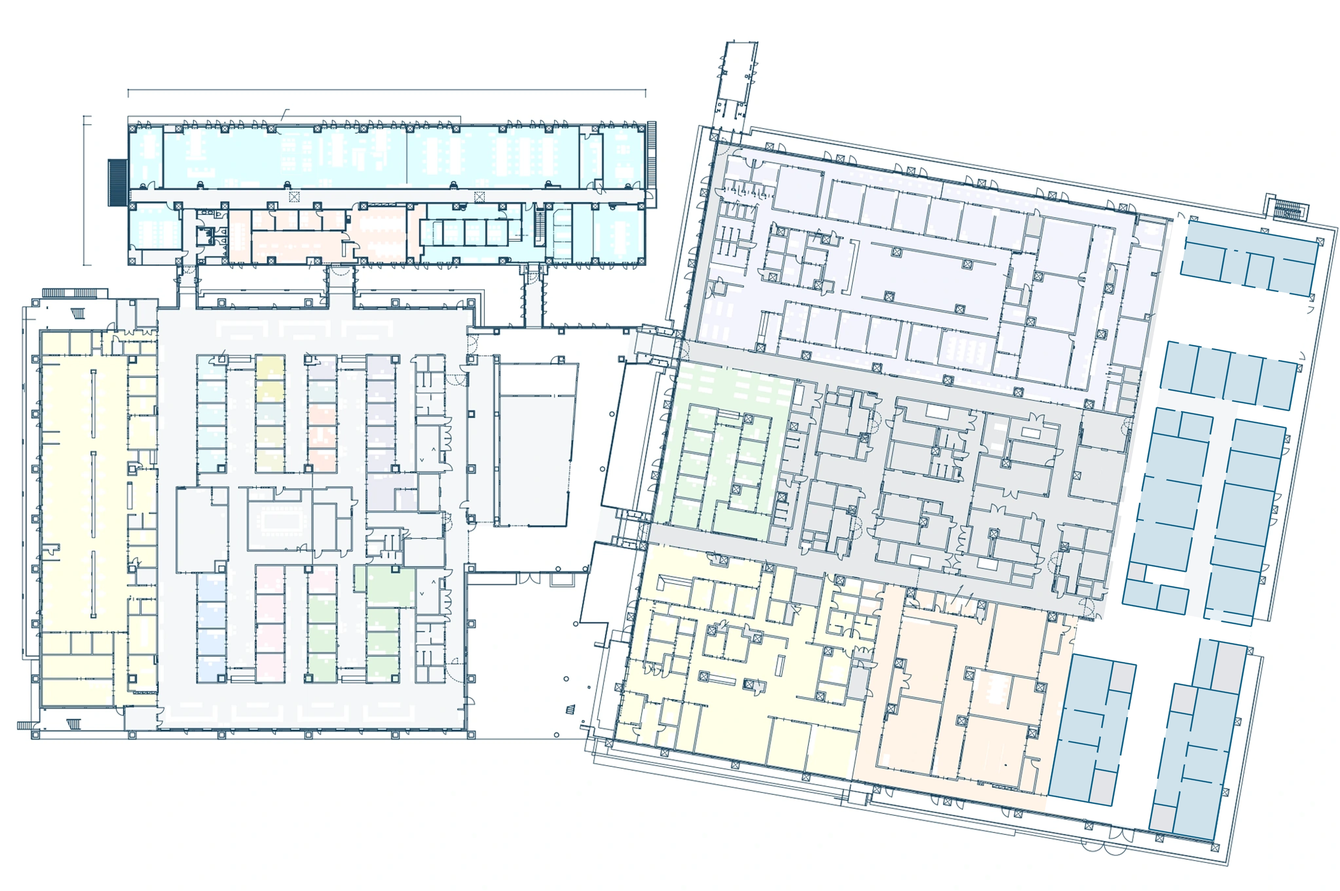
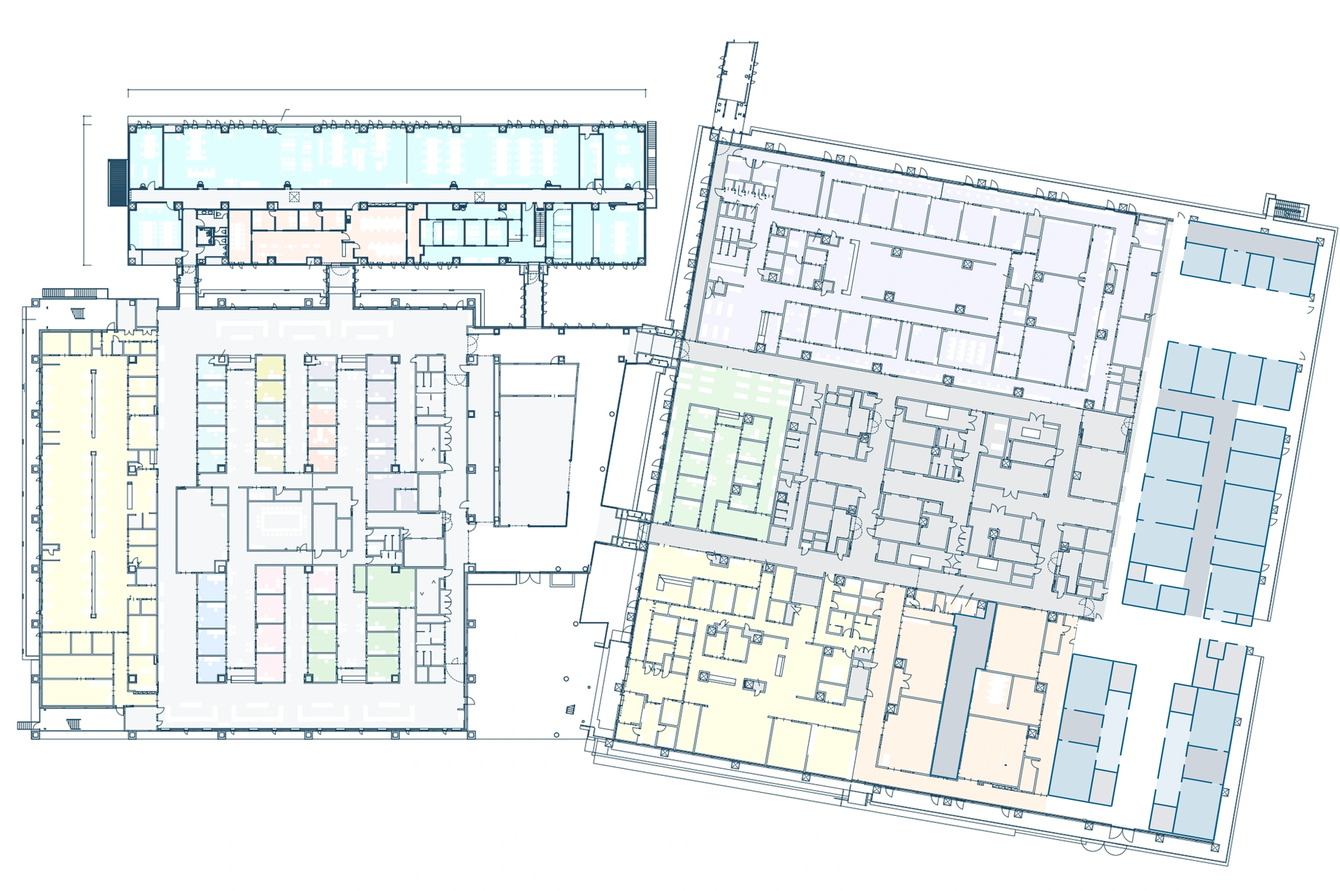
Clarify 2S staff passages and align map signs with patient navigation

Changed region(s): [[0.869, 0.4372, 0.9311, 0.687], [0.6828, 0.687, 0.7449, 0.8744], [0.9, 0.7182, 0.9311, 0.7494]]

diff --git a/docs/staff.html b/docs/staff.html
@@ -15,11 +15,11 @@ window.addEventListener('error',recordMapStartupError,true);
 <main class="settings-hidden" inert><aside id="settings"><div class="aside-top"><p class="eyebrow">HOSPITAL WAYFINDING</p><h1>出発地・目的地を設定</h1><p>外来と病棟を、ひとつの地図で。</p></div><section class="location-card start-card"><h2><i class="start-dot"></i>出発地</h2><strong id="currentName">総合受付</strong><small id="currentFloor">3階</small><details><summary>一覧から出発地を選ぶ</summary><label for="fromSelect">出発する場所</label><select id="fromSelect"></select><p id="plotHelp" class="muted">出発地は手動で設定します。</p></details></section>
 <section id="chosenPlace" class="chosen goal-card" aria-live="polite"><small><i class="goal-dot"></i>目的地</small><h2 id="chosenName">場所を選んでください</h2><p id="chosenFloor"></p><div class="actions"></div></section><section class="location-card destination-card"><h2><i class="goal-dot"></i><span id="searchModeLabel">目的地を探す</span></h2><label class="sr" for="findPlace">科名・場所・案内番号で検索</label><div class="filters" role="group" aria-label="目的地の種類"><button data-filter="all" aria-pressed="true">すべて</button><button data-filter="clinic" aria-pressed="false">外来</button><button data-filter="ward" aria-pressed="false">病棟・リハビリ</button><button data-filter="counter" aria-pressed="false">受付・窓口</button><button data-filter="amenity" aria-pressed="false">食事・買い物</button><button data-filter="equipment" aria-pressed="false">設備</button><button data-filter="entrance" aria-pressed="false">出入口</button></div><div id="resultCount" class="muted" aria-live="polite"></div><div id="placeResults" class="place-results"></div></section>
 </aside>
-<section class="map-area"><div class="map-heading"><div><p class="eyebrow">ONE CONTINUOUS FLOOR MAP</p><h2 id="floorTitle">3階 <span>外来・診療棟</span></h2></div><button id="mapInfoButton" class="secondary info-button">地図の説明</button></div><div class="mobility-controls" hidden><label><span class="sr">移動方法</span><select id="travelChoice"><option value="auto">徒歩</option><option value="stretcher">ストレッチャー</option><option value="elevator">車椅子（EVのみ）</option></select></label></div><div id="mapSearchBar" class="map-search-bar"><button id="openPlaceSearch" aria-label="検索候補を開く" aria-expanded="false">⌕</button><input id="findPlace" type="search" aria-label="科名・場所・案内番号で検索" placeholder="診療科・病棟・施設を検索" autocomplete="off"><button id="clearPlaceSearch" aria-label="検索をクリア">×</button></div><div class="floor-toolbar"><div id="allFloors" class="floors" role="group" aria-label="表示する階"></div><button id="wardFocus" class="secondary">病棟を拡大</button></div><section id="arrowEditorPanel" class="arrow-editor" aria-label="入口矢印の編集" hidden><div class="arrow-editor-title"><strong>入口矢印を調整</strong><span id="arrowSaveStatus" role="status">この端末に自動保存</span></div><p>入口を選び、地図の青い丸をドラッグしてください。矢印の表示だけを調整し、通行ルートは変更しません。</p><div class="arrow-fields"><label>編集する入口<select id="arrowSelect"></select></label><label>向き<select id="arrowDirection"><option value="270">↑ 上向き</option><option value="0">→ 右向き</option><option value="90">↓ 下向き</option><option value="180">← 左向き</option></select></label></div><div class="arrow-actions"><span>位置を微調整</span><button data-arrow-nudge="0,-4" aria-label="矢印を上へ">↑</button><button data-arrow-nudge="-4,0" aria-label="矢印を左へ">←</button><button data-arrow-nudge="4,0" aria-label="矢印を右へ">→</button><button data-arrow-nudge="0,4" aria-label="矢印を下へ">↓</button><button id="undoArrow">元に戻す</button><button id="resetArrow">この入口を初期位置に</button></div><div class="arrow-actions"><button id="exportArrows" class="primary">修正データを書き出す</button><button id="importArrows" class="secondary">修正データを読み込む</button><input id="arrowImportFile" type="file" accept="application/json,.json" hidden></div><p class="muted">他の端末やサイト全体にも反映する場合は、書き出したファイルをこのチャットに添付してください。</p></section><section id="annPanel" class="corridor-panel" aria-label="通路・到着点の修正" hidden><div class="ann-heading"><strong>この地図で通路・到着点を修正</strong><button id="annClose">保存して確認に戻る</button></div><p id="annContext" class="ann-context" hidden></p><p class="ann-explainer">通路は1回描き、受付への枝道を追加できます。修正は端末に自動保存します。<b>ナビへ反映すると青線が更新されます。</b></p><div class="ann-tools" role="group" aria-label="修正するもの"><button data-ann-tool="select" aria-pressed="true">選択・点を動かす</button><button data-ann-tool="corridor" aria-pressed="false">新しい通路</button><button data-ann-tool="entrance" aria-pressed="false">出入口を置く</button><button data-ann-tool="arrival" aria-pressed="false">到着点を置く</button><button id="annCopy">表示中の経路をコピー</button></div><details id="annMetadata" class="ann-metadata"><summary>目的地・通行区分・確認メモを設定</summary><div class="ann-fields"><label>つなぐ目的地<select id="annTarget"></select></label><label>修正案の名称<input id="annName" maxlength="120" value="通路の修正案"></label><label>通行区分<select id="annAccess"><option value="unknown">未確認</option><option value="patient">患者・職員共用</option><option value="staff">職員専用</option></select></label><label>確認状態<select id="annReview"><option value="draft">下書き</option><option value="drawing">図面で確認済み</option><option value="onsite">現地で確認済み</option></select></label></div><label class="ann-note">修正案のメモ<input id="annNote" maxlength="4000" placeholder="扉の手前で終了、通路の曲がり角など"></label></details><div class="ann-actions"><label><input id="annSnap" type="checkbox" checked> 近くの記録済み通路につなぐ</label><label><input id="annOrthogonal" type="checkbox" checked> 直角補正</label><button id="annFinish" class="primary" disabled>線を確定</button><button id="annUndo" disabled>編集を元に戻す</button></div><div class="ann-actions"><strong id="annSelection">新しい修正案</strong><span id="annVertex"></span><button id="annAddPoint" disabled>選択点の次に点を追加</button><button id="annRemovePoint" disabled>選択点を削除</button><button id="annSquare" disabled>選択した線を直角に整える</button><button id="annDelete" disabled>選択した記録を削除</button></div><p id="annStatus" role="status">曲がり角をクリックして描き、丸い点をドラッグして修正します。</p><details><summary>この階の記録 <span id="annCount">0件</span>・データの保存</summary><div id="annRecords" class="ann-records"></div><div class="ann-actions"><button id="annData">データを表示</button><button id="annExport">修正案を書き出す</button><label class="ann-import">修正案を読み込む<input id="annImport" type="file" accept="application/json,.json"></label><a href="annotate-legacy.html" target="_blank" rel="noopener">旧図面の記録を確認 ↗</a></div></details><p class="ann-legend">橙：共用の修正案　紫：区分未確認　灰：職員専用　破線：下書き。青線は既存の案内です。</p></section><dialog id="annDialog"><h2>通路・到着点の修正案</h2><textarea id="annJson" readonly rows="12" aria-label="現在のマップの通路修正データ"></textarea><button id="annDialogClose">閉じる</button></dialog><p id="walkingHint" class="walking-hint">地図の目的地を押す →「ナビ開始」。歩く案内は「次へ」で進めます。青い点は手順に連動して動く案内位置です。自動測位は行いません。</p><div id="routeSummary" class="route-summary" hidden><div><strong id="routeSummaryText"></strong><div id="routeJourney" class="route-journey"></div></div><div class="route-summary-actions"><button id="beginNavigation" class="primary">ナビ開始</button><button id="routeConcernLink" class="secondary" hidden>要確認箇所</button></div></div><button id="returnToPosition" class="return-position" type="button" aria-label="現在地に戻る" title="現在地に戻る" hidden><svg viewBox="0 0 24 24" width="18" height="18" aria-hidden="true" fill="none" stroke="currentColor" stroke-width="1.8" stroke-linecap="round"><circle cx="12" cy="12" r="7"/><circle cx="12" cy="12" r="2.5" fill="currentColor" stroke="none"/><path d="M12 2v3m0 14v3M2 12h3m14 0h3"/></svg></button><section id="navigationPanel" class="navigation-panel" aria-live="polite" hidden><div><span id="navigationCount"></span><button id="stopNavigation" class="secondary" aria-label="ナビを終了">×</button></div><span id="navigationModeBadge" class="navigation-mode-badge"></span><h3 id="navigationInstruction"></h3><p id="navigationDetail" hidden aria-hidden="true"></p><p id="navigationTransferStatus" class="navigation-transfer-status" role="status" hidden></p><div class="navigation-buttons"><button id="navigationPrev" class="secondary">← 前へ</button><button id="navigationNext" class="primary">次へ →</button></div></section><span id="selectionHint" role="status" class="selection-status"></span><div id="mapViewport" class="map-viewport" tabindex="0" aria-label="地図。拡大後はドラッグで移動できます。"><section id="facilityDetails" class="facility-details" aria-label="施設の写真と案内" hidden><section id="routePlanner" class="route-planner" aria-label="経路の設定" hidden><div class="route-travel-tabs" role="group" aria-label="移動方法"><button data-travel-choice="auto" aria-pressed="true"><svg class="walking-pict" viewBox="0 0 24 24" aria-hidden="true" data-icon-source="google-material-directions-walk"><path fill="currentColor" d="M13.5 5.5c1.1 0 2-.9 2-2s-.9-2-2-2-2 .9-2 2 .9 2 2 2zM9.8 8.9L7 23h2.1l1.8-8 2.1 2v6h2v-7.5l-2.1-2 .6-3C14.8 12 16.8 13 19 13v-2c-1.9 0-3.5-1-4.3-2.4l-1-1.6c-.4-.6-1-1-1.7-1-.3 0-.5.1-.8.1L6 8.3V13h2V9.6l1.8-.7"/></svg>通常</button><button data-travel-choice="elevator" aria-pressed="false"><span class="official-wheelchair-icon" aria-hidden="true" title="近畿大学病院公式フロアマップの車椅子ピクト"></span>車椅子（EVのみ）</button></div><div class="route-place-fields"><button id="routeStartField" class="route-place-field route-start-field"><span class="route-field-dot" aria-hidden="true"></span><span><small>出発地・現在いる場所</small><strong id="routeStartLabel">総合受付</strong></span><span class="route-field-edit">変更</span></button><button id="routeGoalField" class="route-place-field route-goal-field"><span class="route-field-dot" aria-hidden="true"></span><span><small>目的地</small><strong id="routeGoalLabel"></strong></span><span class="route-field-edit">変更</span></button></div></section><button id="closeFacilityDetails" class="facility-close" aria-label="施設情報を閉じる">×</button><div id="destinationPhotoPreview" class="destination-photo-preview" hidden><button id="viewDestinationPhoto"><img id="destinationPhotoThumb" referrerpolicy="no-referrer" alt=""><span>写真を見る</span></button><strong id="destinationPhotoLabel"></strong><small>近畿大学病院 公式写真</small></div><div class="facility-detail-body"><small id="facilityDetailFloor"></small><h2 id="facilityDetailName"></h2><div class="facility-detail-actions"><button id="detailRoute" class="secondary">出発地</button><button id="detailNavigate" class="primary">目的地</button><a id="detailWebsite" class="secondary" target="_blank" rel="noopener" href="https://www.med.kindai.ac.jp/floormap_facility.html">ウェブサイト</a></div></div></section><section id="map3DHover" class="map-3d-hover place-preview" aria-label="地図上の施設プレビュー" hidden><button id="closePlacePreview" class="place-preview-close" aria-label="施設プレビューを閉じる">×</button><img id="placePreviewPhoto" alt="" referrerpolicy="no-referrer" hidden><div class="place-preview-copy"><strong id="map3DHoverName"></strong><small id="placePreviewSource" hidden>近畿大学病院 公式写真</small></div></section><div id="map3D" class="map-3d" hidden></div><div class="view-switch" role="group" aria-label="マップの表示"><button id="toggleMapView" data-current-view="2d" aria-label="3Dマップに切り替える">3D</button></div><section id="map3DControls" class="map-3d-controls" aria-label="3Dマップの操作" hidden><div class="map-3d-range">経路全体を表示</div><div class="map-3d-mode" role="group" aria-label="3Dのドラッグ操作"><button data-3d-mode="move" aria-pressed="true">移動</button><button data-3d-mode="rotate" aria-pressed="false">回転</button></div><div class="map-3d-actions"><button id="map3DHome">全体</button></div><details class="map-3d-extra"><summary>細かく操作</summary><div class="map-3d-actions"><button id="map3DPanLeft" aria-label="3Dマップを左へ移動">←</button><button id="map3DPanUp" aria-label="3Dマップを上へ移動">↑</button><button id="map3DPanDown" aria-label="3Dマップを下へ移動">↓</button><button id="map3DPanRight" aria-label="3Dマップを右へ移動">→</button></div><div class="map-3d-actions"><button id="map3DRotateLeft">↶ 回転</button><button id="map3DRotateRight">回転 ↷</button></div></details><p id="map3DGestureHint">1本指で移動 · 2本指で拡大・回転</p><p><strong id="map3DFloor"></strong><span id="map3DStatus" role="status"></span><small>階を離した立体表示</small></p><button id="map3DRetry" hidden>3Dを再読み込み</button></section><span class="maji-attribution">Maji Map</span><div id="mapSheet" class="map-sheet"><img id="mapBackground" alt="3階の公式フロアマップ" draggable="false"><svg id="unifiedOverlay" aria-label="出発地・目的地・確認済み経路"></svg></div><div class="zoom-tools"><button id="zoomIn" aria-label="地図を拡大">＋</button><output id="zoomReadout">100%</output><button id="zoomOut" aria-label="地図を縮小">−</button><button id="resetMap">全体</button></div><div class="map-badge" id="baseBadge">公式マップを使用</div></div><p id="mapMessage" class="map-message" role="status">場所を選ぶと、この地図上で位置を表示します。</p></section></main><dialog id="departmentWebsiteDialog" class="map-dialog"><div class="dialog-heading"><h2>診療科の公式ウェブサイト</h2><button id="closeDepartmentWebsites">閉じる</button></div><div id="departmentWebsiteLinks"></div></dialog><section id="routeSteps" class="route-steps" aria-live="polite" hidden></section><dialog id="mapInfoDialog" class="map-dialog"><div class="map-edit-actions"><button id="toggleArrowEditor" class="secondary" aria-expanded="false" aria-controls="arrowEditorPanel" hidden>入口矢印を編集</button></div><div class="map-edit-actions"><button id="editMedicineEVMain" class="secondary">2階・おくすり側EVの出入口を修正</button></div><div class="map-edit-actions"><button id="annToggle" class="secondary" aria-pressed="false">通路・到着点を編集</button></div><div class="dialog-heading"><h2>地図の説明</h2><button id="closeMapInfo" aria-label="地図の説明を閉じる">閉じる</button></div><div class="legend"><span><i style="background:#1683d1"></i>青線：案内経路</span><span>病棟の色分け：</span><span><i style="background:#e5edf2"></i>東A</span><span><i style="background:#ffe5b8"></i>東B</span><span><i style="background:#dfedd6"></i>西A</span><span><i style="background:#ffd9d9"></i>西B</span><span><i style="background:#f5f5f5"></i>案内対象外</span><span><i style="background:#f9f4e5"></i>EVホール・共用通路</span></div><details class="usage"><summary>通行区分・表示について</summary><label for="visitorMode" hidden>利用する方</label><select id="visitorMode" hidden><option value="patient">外来患者さん・お見舞いの方</option></select><p>通常は乗り換えの少なさを優先し、同条件なら距離で比較します。車椅子を選ぶと、階の移動にはEVのみを使います。7〜10階の病棟間の東西移動は、EVで3階に降りてから案内します。職員専用通路と階段は利用しません。</p><p>1〜5階は公式マップの設備表示を保持しています。表示されていても職員専用の設備は経路に使いません。お見舞いの目的地は病棟の入口です。</p></details><div class="map-note"><p><a href="photo-checklist.html" target="_blank">撮影する施設リスト（公式写真未登録78件）</a> · <a href="location-guide.html" target="_blank">現在地の設定方法</a></p><p>「3D」で階を離した立体表示に切り替えられます。経路全体を常に表示し、動く矢印で進む向きを確認できます。病棟名・施設名をクリックして出発地や目的地を設定できます。建物の実際の内装を再現したモデルではありません。<a href="https://mynrminto.github.io/kindai-hospital-navi/" target="_blank" rel="noopener">3D表示の参考・素材</a> ／ <a href="vendor/three-LICENSE.txt" target="_blank" rel="noopener">Three.js（MIT）</a></p><strong>お見舞いは、各病棟の入口まで。</strong><p>病棟は公式図面の形と光庭を再現し、公式6階と同じ配色で表示しています。地図上の施設名や案内番号を押して、目的地に設定できます。病室番号や病棟内の設備を省き、西EV・東EVから病棟入口までをご案内します。</p><p>1〜5階は公式図面をそのまま表示しています。通行可否は経路案内で確認してください。階段や職員専用の設備は案内経路に使いません。</p><a href="https://www.med.kindai.ac.jp/floormap_facility.html" target="_blank" rel="noopener">参考：近畿大学病院 フロアマップ・施設案内 ↗</a></div></dialog><dialog id="destinationPhotoDialog" class="destination-photo-dialog"><div class="dialog-heading"><div id="destinationPhotoBadge"></div><h2 id="destinationPhotoTitle" tabindex="-1" autofocus></h2><button id="closeDestinationPhoto" class="facility-close" aria-label="写真を閉じる">×</button></div><img id="destinationPhotoFull" referrerpolicy="no-referrer" alt=""><p id="destinationPhotoError" hidden>写真を読み込めませんでした。公式サイトから確認できます。</p></dialog><script src="catalog.js?v=20261110g"></script><script src="clinics.js?v=20261110g"></script><script src="services.js?v=20261110g"></script><script src="route-audit.js?v=20261111s"></script><script src="entrance-policy.js?v=20261115a"></script><script src="official-hit-shapes.js?v=20261116d"></script><script src="route-engine.js?v=20261110g"></script><script src="confirmed-navigation-data.js?v=20261110g"></script><script src="additional-navigation-data.js?v=20261110g"></script><script src="mobility-data.js?v=20261116d"></script><script src="mobility-network.js?v=20261110g"></script><script src="confirmed-network.js?v=20261110g"></script><script src="unified-data.js?v=20261116a"></script><script src="arrow-editor.js?v=20261110g"></script><script src="review-catalog.js?v=20261110i"></script><script src="map-annotation-core.js?v=20261110g"></script><script src="map-annotation-editor.js?v=20261110g"></script><script src="navigation-selection.js?v=20261111s"></script><script src="facility-services.js?v=20261116d"></script><script src="department-links.js?v=20261110g"></script><script src="destination-photos.js?v=20261111t"></script><script src="turn-guidance.js?v=20261112l"></script><script src="navigation-progress.js?v=20261110g"></script><script src="place-preview.js?v=20261110g"></script><script src="route-planner.js?v=20261111s"></script><script src="place-search.js?v=20261111w"></script><script src="unified.js?v=20261116d"></script><script src="visitor-experience.js?v=20261111s"></script><script src="route-experience.js?v=20261115a"></script><script src="discovery-experience.js?v=20261111w"></script><script src="visitor-refinements.js?v=20261111s"></script><script src="visitor-updates.js?v=20261116a"></script><script src="outdoor-position-editor.js?v=20261111s"></script><script src="map-3d-data.js?v=20261110g"></script><script src="map-3d.js?v=20261116d"></script><link rel="stylesheet" href="staff-guide/staff.css?v=20261118f">
-<script src="staff-guide/data.js?v=20261118f"></script>
-<script src="staff-guide/route.js?v=20261118f"></script>
-<script src="staff-guide/plan-destinations.js?v=20261118f"></script>
-<script src="staff-guide/staff.js?v=20261118f"></script>
+<section class="map-area"><div class="map-heading"><div><p class="eyebrow">ONE CONTINUOUS FLOOR MAP</p><h2 id="floorTitle">3階 <span>外来・診療棟</span></h2></div><button id="mapInfoButton" class="secondary info-button">地図の説明</button></div><div class="mobility-controls" hidden><label><span class="sr">移動方法</span><select id="travelChoice"><option value="auto">徒歩</option><option value="stretcher">ストレッチャー</option><option value="elevator">車椅子（EVのみ）</option></select></label></div><div id="mapSearchBar" class="map-search-bar"><button id="openPlaceSearch" aria-label="検索候補を開く" aria-expanded="false">⌕</button><input id="findPlace" type="search" aria-label="科名・場所・案内番号で検索" placeholder="診療科・病棟・施設を検索" autocomplete="off"><button id="clearPlaceSearch" aria-label="検索をクリア">×</button></div><div class="floor-toolbar"><div id="allFloors" class="floors" role="group" aria-label="表示する階"></div><button id="wardFocus" class="secondary">病棟を拡大</button></div><section id="arrowEditorPanel" class="arrow-editor" aria-label="入口矢印の編集" hidden><div class="arrow-editor-title"><strong>入口矢印を調整</strong><span id="arrowSaveStatus" role="status">この端末に自動保存</span></div><p>入口を選び、地図の青い丸をドラッグしてください。矢印の表示だけを調整し、通行ルートは変更しません。</p><div class="arrow-fields"><label>編集する入口<select id="arrowSelect"></select></label><label>向き<select id="arrowDirection"><option value="270">↑ 上向き</option><option value="0">→ 右向き</option><option value="90">↓ 下向き</option><option value="180">← 左向き</option></select></label></div><div class="arrow-actions"><span>位置を微調整</span><button data-arrow-nudge="0,-4" aria-label="矢印を上へ">↑</button><button data-arrow-nudge="-4,0" aria-label="矢印を左へ">←</button><button data-arrow-nudge="4,0" aria-label="矢印を右へ">→</button><button data-arrow-nudge="0,4" aria-label="矢印を下へ">↓</button><button id="undoArrow">元に戻す</button><button id="resetArrow">この入口を初期位置に</button></div><div class="arrow-actions"><button id="exportArrows" class="primary">修正データを書き出す</button><button id="importArrows" class="secondary">修正データを読み込む</button><input id="arrowImportFile" type="file" accept="application/json,.json" hidden></div><p class="muted">他の端末やサイト全体にも反映する場合は、書き出したファイルをこのチャットに添付してください。</p></section><section id="annPanel" class="corridor-panel" aria-label="通路・到着点の修正" hidden><div class="ann-heading"><strong>この地図で通路・到着点を修正</strong><button id="annClose">保存して確認に戻る</button></div><p id="annContext" class="ann-context" hidden></p><p class="ann-explainer">通路は1回描き、受付への枝道を追加できます。修正は端末に自動保存します。<b>ナビへ反映すると青線が更新されます。</b></p><div class="ann-tools" role="group" aria-label="修正するもの"><button data-ann-tool="select" aria-pressed="true">選択・点を動かす</button><button data-ann-tool="corridor" aria-pressed="false">新しい通路</button><button data-ann-tool="entrance" aria-pressed="false">出入口を置く</button><button data-ann-tool="arrival" aria-pressed="false">到着点を置く</button><button id="annCopy">表示中の経路をコピー</button></div><details id="annMetadata" class="ann-metadata"><summary>目的地・通行区分・確認メモを設定</summary><div class="ann-fields"><label>つなぐ目的地<select id="annTarget"></select></label><label>修正案の名称<input id="annName" maxlength="120" value="通路の修正案"></label><label>通行区分<select id="annAccess"><option value="unknown">未確認</option><option value="patient">患者・職員共用</option><option value="staff">職員専用</option></select></label><label>確認状態<select id="annReview"><option value="draft">下書き</option><option value="drawing">図面で確認済み</option><option value="onsite">現地で確認済み</option></select></label></div><label class="ann-note">修正案のメモ<input id="annNote" maxlength="4000" placeholder="扉の手前で終了、通路の曲がり角など"></label></details><div class="ann-actions"><label><input id="annSnap" type="checkbox" checked> 近くの記録済み通路につなぐ</label><label><input id="annOrthogonal" type="checkbox" checked> 直角補正</label><button id="annFinish" class="primary" disabled>線を確定</button><button id="annUndo" disabled>編集を元に戻す</button></div><div class="ann-actions"><strong id="annSelection">新しい修正案</strong><span id="annVertex"></span><button id="annAddPoint" disabled>選択点の次に点を追加</button><button id="annRemovePoint" disabled>選択点を削除</button><button id="annSquare" disabled>選択した線を直角に整える</button><button id="annDelete" disabled>選択した記録を削除</button></div><p id="annStatus" role="status">曲がり角をクリックして描き、丸い点をドラッグして修正します。</p><details><summary>この階の記録 <span id="annCount">0件</span>・データの保存</summary><div id="annRecords" class="ann-records"></div><div class="ann-actions"><button id="annData">データを表示</button><button id="annExport">修正案を書き出す</button><label class="ann-import">修正案を読み込む<input id="annImport" type="file" accept="application/json,.json"></label><a href="annotate-legacy.html" target="_blank" rel="noopener">旧図面の記録を確認 ↗</a></div></details><p class="ann-legend">橙：共用の修正案　紫：区分未確認　灰：職員専用　破線：下書き。青線は既存の案内です。</p></section><dialog id="annDialog"><h2>通路・到着点の修正案</h2><textarea id="annJson" readonly rows="12" aria-label="現在のマップの通路修正データ"></textarea><button id="annDialogClose">閉じる</button></dialog><p id="walkingHint" class="walking-hint">地図の目的地を押す →「ナビ開始」。歩く案内は「次へ」で進めます。青い点は手順に連動して動く案内位置です。自動測位は行いません。</p><div id="routeSummary" class="route-summary" hidden><div><strong id="routeSummaryText"></strong><div id="routeJourney" class="route-journey"></div></div><div class="route-summary-actions"><button id="beginNavigation" class="primary">ナビ開始</button><button id="routeConcernLink" class="secondary" hidden>要確認箇所</button></div></div><button id="returnToPosition" class="return-position" type="button" aria-label="現在地に戻る" title="現在地に戻る" hidden><svg viewBox="0 0 24 24" width="18" height="18" aria-hidden="true" fill="none" stroke="currentColor" stroke-width="1.8" stroke-linecap="round"><circle cx="12" cy="12" r="7"/><circle cx="12" cy="12" r="2.5" fill="currentColor" stroke="none"/><path d="M12 2v3m0 14v3M2 12h3m14 0h3"/></svg></button><section id="navigationPanel" class="navigation-panel" aria-live="polite" hidden><div><span id="navigationCount"></span><button id="stopNavigation" class="secondary" aria-label="ナビを終了">×</button></div><span id="navigationModeBadge" class="navigation-mode-badge"></span><h3 id="navigationInstruction"></h3><p id="navigationDetail" hidden aria-hidden="true"></p><p id="navigationTransferStatus" class="navigation-transfer-status" role="status" hidden></p><div class="navigation-buttons"><button id="navigationPrev" class="secondary">← 前へ</button><button id="navigationNext" class="primary">次へ →</button></div></section><span id="selectionHint" role="status" class="selection-status"></span><div id="mapViewport" class="map-viewport" tabindex="0" aria-label="地図。拡大後はドラッグで移動できます。"><section id="facilityDetails" class="facility-details" aria-label="施設の写真と案内" hidden><section id="routePlanner" class="route-planner" aria-label="経路の設定" hidden><div class="route-travel-tabs" role="group" aria-label="移動方法"><button data-travel-choice="auto" aria-pressed="true"><svg class="walking-pict" viewBox="0 0 24 24" aria-hidden="true" data-icon-source="google-material-directions-walk"><path fill="currentColor" d="M13.5 5.5c1.1 0 2-.9 2-2s-.9-2-2-2-2 .9-2 2 .9 2 2 2zM9.8 8.9L7 23h2.1l1.8-8 2.1 2v6h2v-7.5l-2.1-2 .6-3C14.8 12 16.8 13 19 13v-2c-1.9 0-3.5-1-4.3-2.4l-1-1.6c-.4-.6-1-1-1.7-1-.3 0-.5.1-.8.1L6 8.3V13h2V9.6l1.8-.7"/></svg>通常</button><button data-travel-choice="elevator" aria-pressed="false"><span class="official-wheelchair-icon" aria-hidden="true" title="近畿大学病院公式フロアマップの車椅子ピクト"></span>車椅子（EVのみ）</button></div><div class="route-place-fields"><button id="routeStartField" class="route-place-field route-start-field"><span class="route-field-dot" aria-hidden="true"></span><span><small>出発地・現在いる場所</small><strong id="routeStartLabel">総合受付</strong></span><span class="route-field-edit">変更</span></button><button id="routeGoalField" class="route-place-field route-goal-field"><span class="route-field-dot" aria-hidden="true"></span><span><small>目的地</small><strong id="routeGoalLabel"></strong></span><span class="route-field-edit">変更</span></button></div></section><button id="closeFacilityDetails" class="facility-close" aria-label="施設情報を閉じる">×</button><div id="destinationPhotoPreview" class="destination-photo-preview" hidden><button id="viewDestinationPhoto"><img id="destinationPhotoThumb" referrerpolicy="no-referrer" alt=""><span>写真を見る</span></button><strong id="destinationPhotoLabel"></strong><small>近畿大学病院 公式写真</small></div><div class="facility-detail-body"><small id="facilityDetailFloor"></small><h2 id="facilityDetailName"></h2><div class="facility-detail-actions"><button id="detailRoute" class="secondary">出発地</button><button id="detailNavigate" class="primary">目的地</button><a id="detailWebsite" class="secondary" target="_blank" rel="noopener" href="https://www.med.kindai.ac.jp/floormap_facility.html">ウェブサイト</a></div></div></section><section id="map3DHover" class="map-3d-hover place-preview" aria-label="地図上の施設プレビュー" hidden><button id="closePlacePreview" class="place-preview-close" aria-label="施設プレビューを閉じる">×</button><img id="placePreviewPhoto" alt="" referrerpolicy="no-referrer" hidden><div class="place-preview-copy"><strong id="map3DHoverName"></strong><small id="placePreviewSource" hidden>近畿大学病院 公式写真</small></div></section><div id="map3D" class="map-3d" hidden></div><div class="view-switch" role="group" aria-label="マップの表示"><button id="toggleMapView" data-current-view="2d" aria-label="3Dマップに切り替える">3D</button></div><section id="map3DControls" class="map-3d-controls" aria-label="3Dマップの操作" hidden><div class="map-3d-range">経路全体を表示</div><div class="map-3d-mode" role="group" aria-label="3Dのドラッグ操作"><button data-3d-mode="move" aria-pressed="true">移動</button><button data-3d-mode="rotate" aria-pressed="false">回転</button></div><div class="map-3d-actions"><button id="map3DHome">全体</button></div><details class="map-3d-extra"><summary>細かく操作</summary><div class="map-3d-actions"><button id="map3DPanLeft" aria-label="3Dマップを左へ移動">←</button><button id="map3DPanUp" aria-label="3Dマップを上へ移動">↑</button><button id="map3DPanDown" aria-label="3Dマップを下へ移動">↓</button><button id="map3DPanRight" aria-label="3Dマップを右へ移動">→</button></div><div class="map-3d-actions"><button id="map3DRotateLeft">↶ 回転</button><button id="map3DRotateRight">回転 ↷</button></div></details><p id="map3DGestureHint">1本指で移動 · 2本指で拡大・回転</p><p><strong id="map3DFloor"></strong><span id="map3DStatus" role="status"></span><small>階を離した立体表示</small></p><button id="map3DRetry" hidden>3Dを再読み込み</button></section><span class="maji-attribution">Maji Map</span><div id="mapSheet" class="map-sheet"><img id="mapBackground" alt="3階の公式フロアマップ" draggable="false"><svg id="unifiedOverlay" aria-label="出発地・目的地・確認済み経路"></svg></div><div class="zoom-tools"><button id="zoomIn" aria-label="地図を拡大">＋</button><output id="zoomReadout">100%</output><button id="zoomOut" aria-label="地図を縮小">−</button><button id="resetMap">全体</button></div><div class="map-badge" id="baseBadge">公式マップを使用</div></div><p id="mapMessage" class="map-message" role="status">場所を選ぶと、この地図上で位置を表示します。</p></section></main><dialog id="departmentWebsiteDialog" class="map-dialog"><div class="dialog-heading"><h2>診療科の公式ウェブサイト</h2><button id="closeDepartmentWebsites">閉じる</button></div><div id="departmentWebsiteLinks"></div></dialog><section id="routeSteps" class="route-steps" aria-live="polite" hidden></section><dialog id="mapInfoDialog" class="map-dialog"><div class="map-edit-actions"><button id="toggleArrowEditor" class="secondary" aria-expanded="false" aria-controls="arrowEditorPanel" hidden>入口矢印を編集</button></div><div class="map-edit-actions"><button id="editMedicineEVMain" class="secondary">2階・おくすり側EVの出入口を修正</button></div><div class="map-edit-actions"><button id="annToggle" class="secondary" aria-pressed="false">通路・到着点を編集</button></div><div class="dialog-heading"><h2>地図の説明</h2><button id="closeMapInfo" aria-label="地図の説明を閉じる">閉じる</button></div><div class="legend"><span><i style="background:#1683d1"></i>青線：案内経路</span><span>病棟の色分け：</span><span><i style="background:#e5edf2"></i>東A</span><span><i style="background:#ffe5b8"></i>東B</span><span><i style="background:#dfedd6"></i>西A</span><span><i style="background:#ffd9d9"></i>西B</span><span><i style="background:#f5f5f5"></i>案内対象外</span><span><i style="background:#f9f4e5"></i>EVホール・共用通路</span></div><details class="usage"><summary>通行区分・表示について</summary><label for="visitorMode" hidden>利用する方</label><select id="visitorMode" hidden><option value="patient">外来患者さん・お見舞いの方</option></select><p>通常は乗り換えの少なさを優先し、同条件なら距離で比較します。車椅子を選ぶと、階の移動にはEVのみを使います。7〜10階の病棟間の東西移動は、EVで3階に降りてから案内します。職員専用通路と階段は利用しません。</p><p>1〜5階は公式マップの設備表示を保持しています。表示されていても職員専用の設備は経路に使いません。お見舞いの目的地は病棟の入口です。</p></details><div class="map-note"><p><a href="photo-checklist.html" target="_blank">撮影する施設リスト（公式写真未登録78件）</a> · <a href="location-guide.html" target="_blank">現在地の設定方法</a></p><p>「3D」で階を離した立体表示に切り替えられます。経路全体を常に表示し、動く矢印で進む向きを確認できます。病棟名・施設名をクリックして出発地や目的地を設定できます。建物の実際の内装を再現したモデルではありません。<a href="https://mynrminto.github.io/kindai-hospital-navi/" target="_blank" rel="noopener">3D表示の参考・素材</a> ／ <a href="vendor/three-LICENSE.txt" target="_blank" rel="noopener">Three.js（MIT）</a></p><strong>お見舞いは、各病棟の入口まで。</strong><p>病棟は公式図面の形と光庭を再現し、公式6階と同じ配色で表示しています。地図上の施設名や案内番号を押して、目的地に設定できます。病室番号や病棟内の設備を省き、西EV・東EVから病棟入口までをご案内します。</p><p>1〜5階は公式図面をそのまま表示しています。通行可否は経路案内で確認してください。階段や職員専用の設備は案内経路に使いません。</p><a href="https://www.med.kindai.ac.jp/floormap_facility.html" target="_blank" rel="noopener">参考：近畿大学病院 フロアマップ・施設案内 ↗</a></div></dialog><dialog id="destinationPhotoDialog" class="destination-photo-dialog"><div class="dialog-heading"><div id="destinationPhotoBadge"></div><h2 id="destinationPhotoTitle" tabindex="-1" autofocus></h2><button id="closeDestinationPhoto" class="facility-close" aria-label="写真を閉じる">×</button></div><img id="destinationPhotoFull" referrerpolicy="no-referrer" alt=""><p id="destinationPhotoError" hidden>写真を読み込めませんでした。公式サイトから確認できます。</p></dialog><script src="catalog.js?v=20261110g"></script><script src="clinics.js?v=20261110g"></script><script src="services.js?v=20261110g"></script><script src="route-audit.js?v=20261111s"></script><script src="entrance-policy.js?v=20261115a"></script><script src="official-hit-shapes.js?v=20261116d"></script><script src="route-engine.js?v=20261110g"></script><script src="confirmed-navigation-data.js?v=20261110g"></script><script src="additional-navigation-data.js?v=20261110g"></script><script src="mobility-data.js?v=20261116d"></script><script src="mobility-network.js?v=20261110g"></script><script src="confirmed-network.js?v=20261110g"></script><script src="unified-data.js?v=20261116a"></script><script src="arrow-editor.js?v=20261110g"></script><script src="review-catalog.js?v=20261110i"></script><script src="map-annotation-core.js?v=20261110g"></script><script src="map-annotation-editor.js?v=20261110g"></script><script src="navigation-selection.js?v=20261111s"></script><script src="facility-services.js?v=20261116d"></script><script src="department-links.js?v=20261110g"></script><script src="destination-photos.js?v=20261111t"></script><script src="turn-guidance.js?v=20261112l"></script><script src="navigation-progress.js?v=20261110g"></script><script src="place-preview.js?v=20261110g"></script><script src="route-planner.js?v=20261111s"></script><script src="place-search.js?v=20261111w"></script><script src="unified.js?v=20261116d"></script><script src="visitor-experience.js?v=20261111s"></script><script src="route-experience.js?v=20261115a"></script><script src="discovery-experience.js?v=20261111w"></script><script src="visitor-refinements.js?v=20261111s"></script><script src="visitor-updates.js?v=20261116a"></script><script src="outdoor-position-editor.js?v=20261111s"></script><script src="map-3d-data.js?v=20261110g"></script><script src="map-3d.js?v=20261116d"></script><link rel="stylesheet" href="staff-guide/staff.css?v=20261118g">
+<script src="staff-guide/data.js?v=20261118g"></script>
+<script src="staff-guide/route.js?v=20261118g"></script>
+<script src="staff-guide/plan-destinations.js?v=20261118g"></script>
+<script src="staff-guide/staff.js?v=20261118g"></script>
 <script>
 window.removeEventListener('error',recordMapStartupError,true);
 if(mapStartupFailed||!document.querySelector('.visitor-experience #mapViewport, .review-embedded #mapViewport')){

diff --git a/docs/staff-guide/staff.js b/docs/staff-guide/staff.js
@@ -61,7 +61,7 @@ function loadStaffLocations() {
 
 for (const [floor, plan] of Object.entries(staffPlans)) {
   Object.assign(unifiedMapModel.floors[floor], {
-    image:'staff-guide/maps/' + floor + (Number(floor)===2 ? '-simple-plan.webp' : '-verified-plan.webp'),
+    image:'staff-guide/maps/' + floor + (Number(floor)===2 ? '-simple-plan.webp?v=20261118g' : '-verified-plan.webp'),
     size:[plan.width,plan.height],
   });
 }
@@ -116,7 +116,8 @@ placeAtMapPoint = (places, floor, point) => {
     if (place.floor!==floor) continue;
     const p = staffLocation(place);
     if (!p) continue;
-    const distance = Math.hypot(point[0]-p[0],point[1]-p[1]);
+    const targets = staffPoints.get(place.ref)?.toiletIconPoints || [p];
+    const distance = Math.min(...targets.map(([x,y])=>Math.hypot(point[0]-x,point[1]-y)));
     if (distance < min) { min = distance; nearest = place; }
   }
   return nearest;
@@ -148,13 +149,14 @@ function staffRoomLabel(x,y,zoomScale,label) {
 }
 function radiologyReceptionLabel(x,y,zoomScale,destination) {
   const badge = document.createElement('span');
+  badge.className = 'code staff-map-code';
   styleCandidateCode(badge,destination);
-  const color = badge.style.getPropertyValue('--sign-color');
   const group = svgNode('g', {});
-  group.append(svgNode('rect',{x:x-13/zoomScale,y:y-16/zoomScale,width:26/zoomScale,
-    height:26/zoomScale,rx:3.25/zoomScale,fill:color}));
-  group.append(svgNode('text',{x,y:y-3/zoomScale,'text-anchor':'middle','dominant-baseline':'central',
-    fill:'white','font-size':8.45/zoomScale,'font-weight':'bold'},'2S'));
+  const displayScale = (mapUI.zoom<1.65?20:26)/40/zoomScale;
+  const tile = svgNode('foreignObject',{width:40,height:40,'pointer-events':'none',
+    transform:`translate(${x-20*displayScale} ${y-24*displayScale}) scale(${displayScale})`});
+  tile.append(badge);
+  group.append(tile);
   group.append(staffRoomLabel(x,y+18/zoomScale,zoomScale,'中央放射線部・'));
   group.append(staffRoomLabel(x,y+30/zoomScale,zoomScale,'放射線診断科'));
   return group;
@@ -188,9 +190,10 @@ renderOverlay = () => {
     target.append(svgNode('title',{},liftInfo?d.name+' · '+liftInfo.stops:d.name));
     target.append(svgNode('circle',{cx:x,cy:y,r:11,fill:'transparent'}));
     const zoomScale = mapUI.base * mapUI.zoom || 1;
+    const overview = mapUI.zoom<1.65;
     if (f!==2) {
       if (kind==='elevator' && !primary) {
-        const iconSize = 16/zoomScale;
+        const iconSize = (overview?12:16)/zoomScale;
         target.append(svgNode('use',{href:'assets/equipment-pictograms.svg#elevator',
           x:x-iconSize/2,y:y-iconSize/2,width:iconSize,height:iconSize,'pointer-events':'none'}));
       } else if (kind==='stairs') {
@@ -204,10 +207,17 @@ renderOverlay = () => {
     if (d.ref==='outpatient:2::2S') {
       target.append(radiologyReceptionLabel(x,y,zoomScale,d));
     } else if (place.toiletIcons) {
-      const size = 19/zoomScale;
-      target.append(svgNode('image',{href:'assets/legend-toilet-'+place.toiletIcons[0]+'.svg?v=20261110l',
-        x:x-size/2,y:y-size/2,width:size,height:size}));
-    } else if (detailRoom && (mapUI.zoom>=1.65 || selected)) {
+      const points = place.toiletIconPoints || [[x,y]];
+      let size = (overview?13:19)/zoomScale;
+      if (points.length>1) {
+        const spacing = points.flatMap(([px,py],i)=>points.slice(i+1).map(([qx,qy])=>Math.hypot(px-qx,py-qy)));
+        size = Math.min(size,Math.min(...spacing)*0.83);
+      }
+      for (const [i,[px,py]] of points.entries()) {
+        target.append(svgNode('image',{href:'assets/legend-toilet-'+place.toiletIcons[i]+'.svg?v=20261110l',
+          x:px-size/2,y:py-size/2,width:size,height:size}));
+      }
+    } else if (detailRoom && !place.hideMapLabel && (!overview || selected)) {
       target.append(staffRoomLabel(x,y,zoomScale,conference?'カンファレンス室 '+d.code:(place.mapLabel || place.name)));
     } else if (!detailRoom && (selected || primary || (kind==='stairs'&&mapUI.zoom>=1.4) || mapUI.zoom>=2)) {
       const position = f===2 ? {x,y,'text-anchor':'middle','dominant-baseline':'central'} : staffLabelPosition(d,place,x,y);

diff --git a/docs/staff-guide/plan-destinations.js b/docs/staff-guide/plan-destinations.js
@@ -48,19 +48,18 @@ for (const [number,label,pixel,approach] of radiologyRooms) {
 }
 
 for (const [id,name,pixel,approach] of [
-  ['mri-toilet','第4MRI室横のトイレ',[1840,1014],[1839,959]],
+  ['mri-toilet','第4MRI室横のトイレ',[1840,1014],[1859,962]],
   ['mri-ante-1','MRI前室1',[1702,1097],[1745,1093]],
   ['mri-ante-2','MRI前室2',[1788,1172],[1741,1113]],
   ['technologist','技師室',[1911,717],[1860,725]],
   ['reading','読影室',[1898,787],[1850,792]],
-  ['operation-1','操作室1',[1458,1053],[1461,1050]],
-  ['operation-2','操作室2',[1649,1115],[1649,1114]],
-  ['operation-3','操作室3',[1842,1177],[1843,1169]],
-  ['operation-4','操作室4',[1851,715],[1860,715]],
-  ['operation-5','操作室5',[1882,368],[1881,365]],
 ]) {
   staffPlanDestinations.push({
-    id:'2S-'+id, floor:2, name, toiletIcons:id==='mri-toilet'?['01']:undefined,
+    id:'2S-'+id, floor:2, name,
+    ...(id==='mri-toilet' ? {
+      toiletIcons:['01','02','05'],
+      toiletIconPoints:[[1841.6,1025.9],[1874.6,1038.5],[1857.1,993.9]],
+    } : {hideMapLabel:id.startsWith('mri-ante-')}),
     category:'radiology', aliases:'2S', referenceOnly:true,
     point:staffPlanPoint(2,pixel), approach:staffPlanPoint(2,approach),
   });
@@ -141,19 +140,11 @@ const radiologyEntrances = [
     ['2S-reading','8201ff75-8f54-488d-baf3-8419b5b1df3e'],
     ['2S-technologist','5a522d3d-edce-41ec-a560-ebf9f8b17f1e'],
   ]],
-  ['43a99009-8196-44ee-9a23-bb3c824ac822', [
-    ['2S-operation-2','004c0dae-2ada-42a4-8559-b4e9ddbd2aca'],
-  ]],
-  ['7efd8b76-8c0f-4e7d-8fb6-c9641d90352d', [
-    ['2S-operation-3','eadb5eb3-3204-43c8-ae36-3bf911702899'],
-  ]],
   ['3affd2cc-8b69-4954-9c69-832b589619ab', [
-    ['2S-mri-toilet','ce551989-3a54-4544-b51b-d9321a2f4722'],
-    ['2S-operation-4','5b21db3d-e3f0-4859-addc-263fdf8cb6a4','職員用入口前'],
+    ['2S-mri-toilet','1ce13aa3-1b7b-4129-92ec-767c9a6cf02c','車椅子対応トイレ入口前の通路'],
     ['2S-10','d9bd3497-ce93-420c-82b9-9200d78deb61'],
   ]],
   ['400ec46a-a640-40fc-9112-5defc21ede0c', [
-    ['2S-operation-5','18613b63-9795-48ad-a9af-e22cf911ba5f','職員用入口前'],
     ['2S-18','20538e67-cd41-495a-86ae-af542cc6d007'],
     ['2S-11','4821bbe5-3e22-401d-99fd-b2a27c143fd2'],
     ['2S-12','3304cad6-8525-40ec-9bd9-4e4ba9c941e0'],
@@ -165,5 +156,4 @@ const radiologyMapLabels = [
   ['更衣室',1782.3,645.4],
   ['器材室',1825.2,652.9],
   ['スタッフ室',1921,670.3],
-  ['EPS4',1735.3,873.6],
 ];

diff --git a/docs/staff-guide/staff.css b/docs/staff-guide/staff.css
@@ -53,3 +53,17 @@ body.staff-map.visitor-experience .route-planning-header .route-travel-tabs {
 }
 
 .staff-map .staff-options[hidden] { display: none; }
+.staff-map .staff-map-code {
+  box-sizing: border-box;
+  display: inline-flex;
+  justify-content: center;
+  align-items: center;
+  width: 40px;
+  height: 40px;
+  border: 1px solid transparent;
+  border-radius: 5px;
+  color: #fff;
+  font-size: 13px;
+  font-weight: 700;
+  white-space: nowrap;
+}
